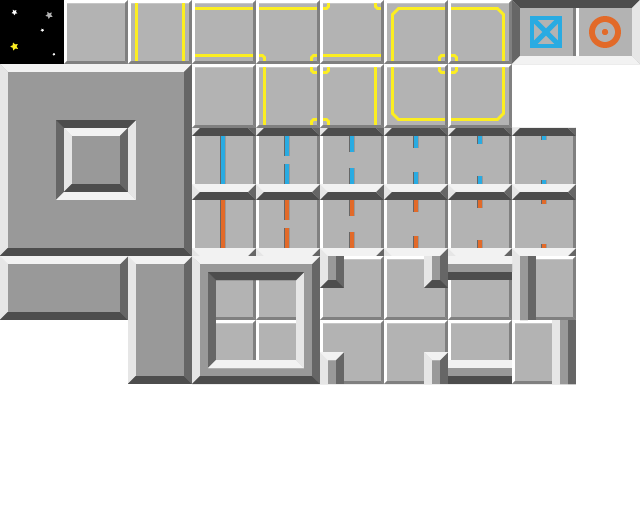
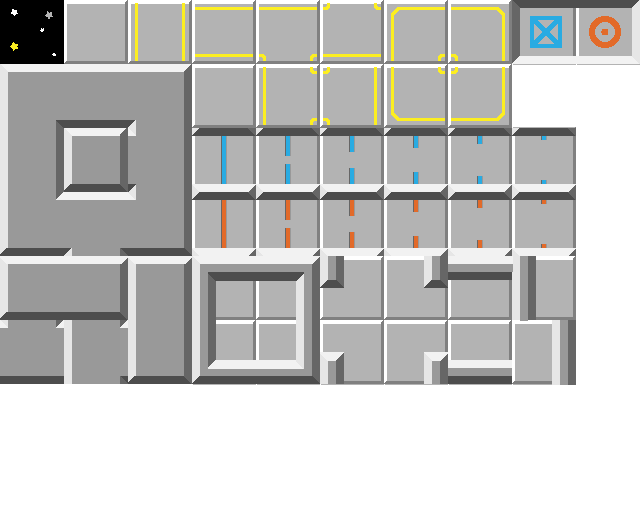
larger canvas
advanced patroller-level (maze)
add chaser enemy, and empty-space level for it to chase

diff --git a/js/sprites.js b/js/sprites.js
@@ -252,3 +252,34 @@ class Patroller extends Enemy {
     }
 
 }
+
+class Chaser extends Enemy {
+    constructor() {
+        super("chaser");
+        this.target = {x:0, y:0};
+        this.speed = 1.6;
+    }
+
+    move() {
+        // find player
+        this.target.x = player.x;
+        this.target.y = player.y;
+
+        // set the direction, depending on
+        if( Math.abs(this.x - this.target.x) > Math.abs(this.y - this.target.y) ) {
+            // move x
+            if( this.x > this.target.x ) {
+                this.moveLeft();
+            } else {
+                this.moveRight();
+            }
+        } else {
+            // move y
+            if( this.y > this.target.y ) {
+                this.moveUp();
+            } else {
+                this.moveDown();
+            }
+        }
+    }
+}

diff --git a/js/game.js b/js/game.js
@@ -75,6 +75,7 @@ function gameLoaded() {
             "guard": [10],
             "hunter": [20],
             "patroller": [30],
+            "chaser": [21],
             "key": [11]
         },
         "framerate": 10
@@ -256,6 +257,11 @@ function createEnemy( data ) {
             enemy = new Patroller( data.pattern );
             enemy.offset = data.offset;
             enemy.setPosition(0);
+            break;
+        case "chaser":
+            enemy = new Chaser();
+            enemy.offset = data.offset;
+            enemy.setGridPosition( data.grid.x, data.grid.y );
             break;
     }
 

diff --git a/index.html b/index.html
@@ -10,7 +10,7 @@
 </head>
 <body>
 
-<canvas id="canvas" width="640" height="640"></canvas>
+<canvas id="canvas" width="960" height="640"></canvas>
 
 </body>
 </html>
